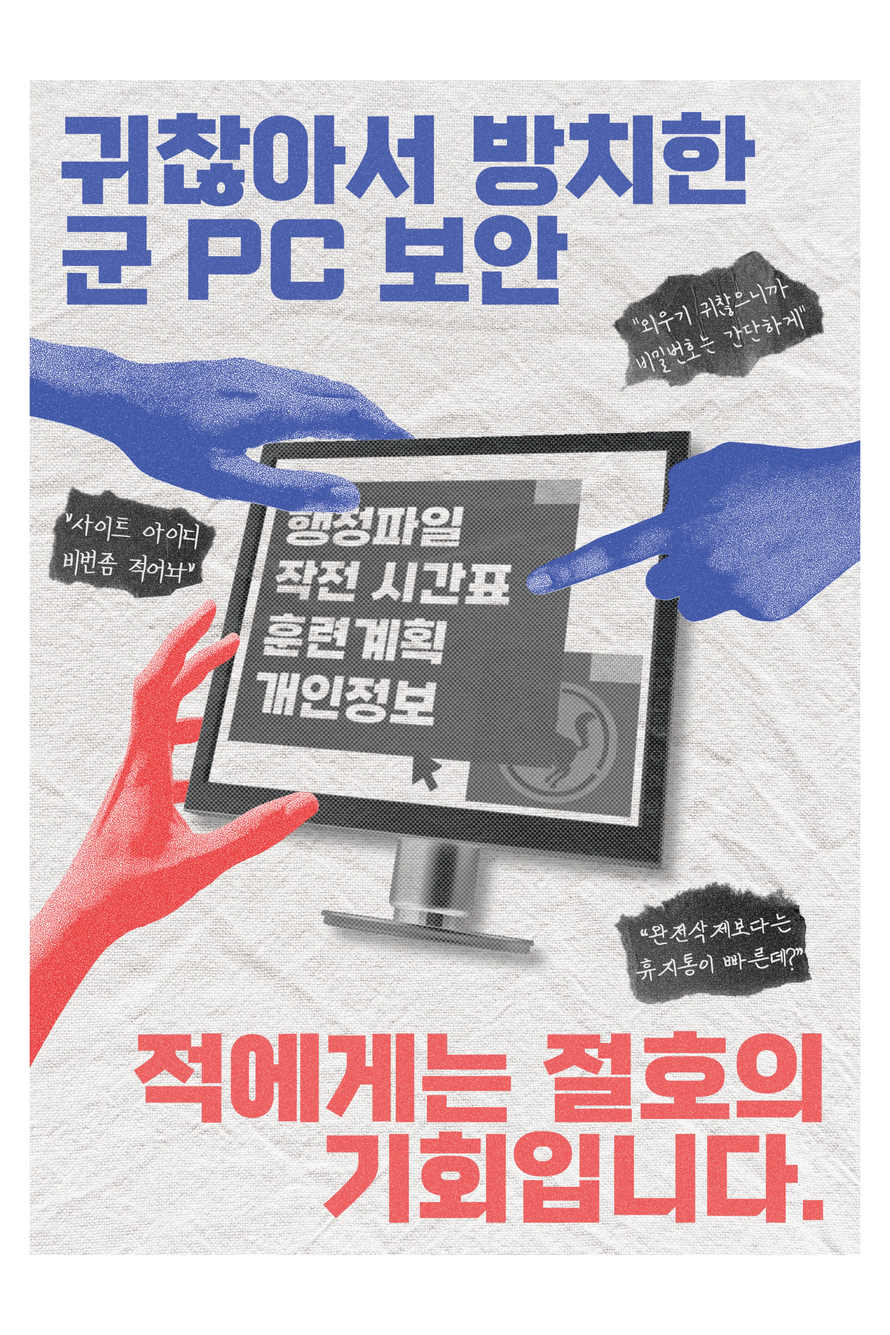
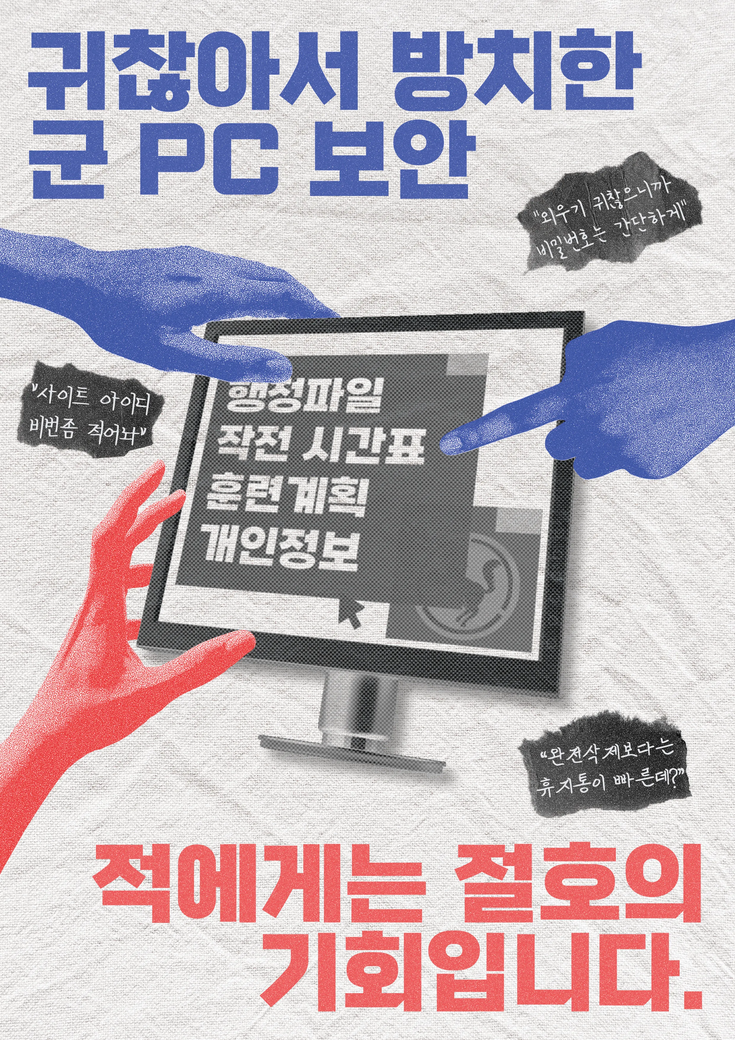
Polish post descriptions, update content_full text layout

diff --git a/assets/css/styles_tailwind.css b/assets/css/styles_tailwind.css
@@ -230,12 +230,6 @@
   .inline-flex {
     display: inline-flex;
   }
-  .table {
-    display: table;
-  }
-  .aspect-\[2\/3\] {
-    aspect-ratio: 2/3;
-  }
   .h-2 {
     height: calc(var(--spacing) * 2);
   }
@@ -253,9 +247,6 @@
   }
   .max-h-\[4rem\] {
     max-height: 4rem;
-  }
-  .w-1 {
-    width: calc(var(--spacing) * 1);
   }
   .w-1\/2 {
     width: calc(1/2 * 100%);
@@ -284,26 +275,14 @@
   .flex-1 {
     flex: 1;
   }
-  .flex-shrink {
-    flex-shrink: 1;
-  }
   .shrink-0 {
     flex-shrink: 0;
-  }
-  .flex-grow {
-    flex-grow: 1;
-  }
-  .border-collapse {
-    border-collapse: collapse;
   }
   .transform {
     transform: var(--tw-rotate-x,) var(--tw-rotate-y,) var(--tw-rotate-z,) var(--tw-skew-x,) var(--tw-skew-y,);
   }
   .animate-\[marquee_30s_linear_infinite\] {
     animation: marquee 30s linear infinite;
-  }
-  .resize {
-    resize: both;
   }
   .grid-cols-1 {
     grid-template-columns: repeat(1, minmax(0, 1fr));
@@ -331,6 +310,9 @@
   }
   .justify-end {
     justify-content: flex-end;
+  }
+  .justify-start {
+    justify-content: flex-start;
   }
   .gap-0 {
     gap: calc(var(--spacing) * 0);
@@ -469,13 +451,6 @@
   .uppercase {
     text-transform: uppercase;
   }
-  .underline {
-    text-decoration-line: underline;
-  }
-  .outline {
-    outline-style: var(--tw-outline-style);
-    outline-width: 1px;
-  }
   .outline-1 {
     outline-style: var(--tw-outline-style);
     outline-width: 1px;
@@ -485,9 +460,6 @@
   }
   .blur {
     --tw-blur: blur(8px);
-    filter: var(--tw-blur,) var(--tw-brightness,) var(--tw-contrast,) var(--tw-grayscale,) var(--tw-hue-rotate,) var(--tw-invert,) var(--tw-saturate,) var(--tw-sepia,) var(--tw-drop-shadow,);
-  }
-  .filter {
     filter: var(--tw-blur,) var(--tw-brightness,) var(--tw-contrast,) var(--tw-grayscale,) var(--tw-hue-rotate,) var(--tw-invert,) var(--tw-saturate,) var(--tw-sepia,) var(--tw-drop-shadow,);
   }
   .group-hover\:bg-white {
@@ -625,7 +597,6 @@
 }
 .markdown p {
   line-height: 1.75;
-  margin-top: 0.75rem;
   margin-bottom: 0.75rem;
 }
 .markdown a {
@@ -712,6 +683,12 @@ mjx-container[display="true"] {
 }
 mjx-container[display="true"] > mjx-math {
   min-width: fit-content;
+}
+.aspect-\[2\/3\] {
+  aspect-ratio: 2/3;
+}
+.aspect-\[1\/1\.41\] {
+  aspect-ratio: 1/1.41;
 }
 @property --tw-rotate-x {
   syntax: "*";

diff --git a/_includes/home/content_full.html b/_includes/home/content_full.html
@@ -12,7 +12,7 @@
                     <div class="flex flex-row items-center">
                         <div class="w-2 h-2 bg-black mr-2"></div>
                         <div class="font-normal font-[IBM_Plex_Mono] text-sm break-words">
-                            {{ post.date | date: "%Y-%m-%d" }}   
+                            {{ post.date | date: "%Y-%m-%d" }}
                         </div>
                     </div>
                     <div class="font-medium font-[Inter] text-2xl uppercase break-words">
@@ -28,17 +28,11 @@
                 </div>
             </div>
             <div class="sm:w-1/2 xl:w-2/3 flex flex-col justify-between items-center p-4 h-full">
-                <!-- Spacer -->
-                <div class="flex-grow"></div>
-            
-                <!-- Centered Text -->
+                <!-- Text -->
                 <div class="markdown w-full font-normal font-[IBM_Plex_Mono] text-left break-words">
                     {{ post.abstract | markdownify }}
                 </div>
 
-                <!-- Spacer -->
-                <div class="flex-grow"></div>
-            
                 <!-- Button at the bottom -->
                 <a class="w-full inline-flex items-center justify-center px-4 py-2 font-[IBM_Plex_Mono] text-sm text-black bg-neutral-200 border-1 border-black rounded-full hover:text-white hover:bg-black"
                 href="{{ post.url }}">

diff --git a/_layouts/home.html b/_layouts/home.html
@@ -15,13 +15,13 @@
   {% include home/content_full.html category="research" %}
       
   {% include title_carousel.html text="Photography" repeat=7 %}
-  {% include home/content_compact.html category="photography" %}
+  {% include home/content_compact.html category="photography" image_aspect="2/3" %}
 
   {% include title_carousel.html text="Interactive Media" repeat=5 %}
   {% include home/content_full.html category="interactive" %}
 
   {% include title_carousel.html text="Extras" repeat=12 %}
-  {% include home/content_compact.html category="extra" %}
+  {% include home/content_compact.html category="extra" image_aspect="1/1.41" %}
 
   {% include spacer_bottom.html %}
 </body>

diff --git a/_includes/home/content_compact.html b/_includes/home/content_compact.html
@@ -17,7 +17,8 @@
           <div class="flex-1 font-medium font-[Inter] text-2xl text-black group-hover:text-white uppercase break-words">
             {{ post.title }}
           </div>
-          <div class="relative w-full aspect-[2/3] overflow-hidden">
+          {% assign image_aspect = include.image_aspect %}
+          <div class="relative w-full aspect-[{{ image_aspect }}] overflow-hidden">
             <img src="{{ post.thumbnail }}" class="absolute inset-0 w-full h-full object-cover" />
           </div>
         </a>

diff --git a/assets/css/styles.css b/assets/css/styles.css
@@ -3,12 +3,12 @@
 /* === General Markdown Styling === */
 .markdown {
   color: black;
-  font-size: 0.875rem;
+  font-size: 0.875rem; /* same as text-sm */
 }
 
 .markdown p {
   line-height: 1.75;
-  margin-top: 0.75rem;
+  /*margin-top: 0.75rem;*/
   margin-bottom: 0.75rem;
 }
 
@@ -126,3 +126,11 @@ mjx-container[display="true"] {
 mjx-container[display="true"] > mjx-math {
   min-width: fit-content;
 }
+
+.aspect-\[2\/3\] {
+    aspect-ratio: 2/3;
+  }
+
+ .aspect-\[1\/1\.41\] {
+    aspect-ratio: 1/1.41;
+  }

diff --git a/_includes/home/content_about.html b/_includes/home/content_about.html
@@ -21,7 +21,7 @@
             </div>
             <div></div>
         </div>
-        <div class="sm:w-1/2 xl:w-2/3 flex flex-col justify-center items-center h-full p-4">
+        <div class="sm:w-1/2 xl:w-2/3 flex flex-col justify-start items-center h-full p-4">
             <div class="markdown w-full font-normal font-[IBM_Plex_Mono] text-base text-left break-words">
                 {{ post.content | markdownify }}
             </div>

diff --git a/_posts/interactive/2023-02-13-metro.md b/_posts/interactive/2023-02-13-metro.md
@@ -4,14 +4,14 @@ categories: interactive
 title: "Metro"
 title_repeat: 15
 subtitle: "3D Interactive Art"
-comment: "Interactive Exhibition Piece, Gimpo, South Korea"
+comment: "Interactive Art Exhibition Piece"
 date: 2023-02-13
 abstract: >
-  An interactive 3D scene of a train platform and an animated metro train, rendered in real-time in the Unity game engine. Heavily inspired by the 1995 movie "Whisper of the Heart", the visual style replicates the classic Japanese hand-drawn animation style. Selective, high contrast cel shading, edge outlines, and strong bloom were used as primary methods. Part of an in-person interactive art exhibition in Gimpo, South Korea, 2023. Made with Unity, Blender 3D, C#, and Xbox Kinect.
-thumbnail: /assets/img/metro/thumb.webp
+  An interactive 3D scene of a train platform and an animated metro train, rendered in real-time in the Unity game engine. The visual theme was heavily inspired by the 1995 movie "Whisper of the Heart", replicating the classic Japanese hand-drawn animation style. Selective, high contrast cel shading, edge outlines, and strong bloom were used as primary techniques. An animated train would arrive and depart upon user input or movement detection via an Xbox Kinect sensor. Part of an in-person interactive art exhibition in Gimpo, South Korea, in 2023. Made with Unity for (main engine), Blender 3D (modelling), C# (scripting), and Xbox Kinect (person detection).
+thumbnail: /assets/img/metro/main_demo.gif
 permalink: /metro
 ---
-<img src="/assets/img/metro/thumb.webp" class="w-full sm:w-2/3 h-auto mx-auto">
+<img src="/assets/img/metro/main_demo.gif" class="w-full sm:w-2/3 h-auto mx-auto">
 
 {{ page.abstract }}
 
@@ -24,7 +24,7 @@ permalink: /metro
 
 ## Overview
 <video class="w-full sm:w-1/3 h-auto mx-auto" autoplay loop muted>
-  <source src="/assets/img/metro/demo.mp4" type="video/mp4">
+  <source src="/assets/img/metro/render_demo.mp4" type="video/mp4">
 </video>
 
 # Exhibition Installation 

diff --git a/_posts/research/2025-04-28-emulating-emulsion.md b/_posts/research/2025-04-28-emulating-emulsion.md
@@ -4,10 +4,10 @@ categories: research
 title: "Emulating Emulsion"
 title_repeat: 5
 subtitle: "A Compact, Physically-Based Model for Film Colour"
-comment: "SIGGRAPH Posters 2025, Vancouver, Canada"
+comment: "ACM SIGGRAPH 2025 Posters"
 date: 2025-04-28
 abstract: >
- We present a compact, physically-based model that faithfully emulates the colour response of positive photographic film from a digital RAW image. Unlike hand-crafted look-up tables (LUT) or data-hungry neural networks, our approach analytically mirrors the film "capture-develop–scan" chain, all with around 30 trainable parameters. Least-squares optimisation on 3168 colour patch pairs captured on one roll of Fujifilm VELVIA 100 achieves colour chart root-mean-squared-error (RMSE) 1.3 % with no interpolation artefacts. Additionally, qualitative comparisons show the proposed model more closely matches real film than Fujifilm’s proprietary VELVIA "film simulation". The continuous model can also be discretised into LUTs of any resolution, offering production-ready film emulation and a path for archival of discontinued stocks.
+ We present a compact, physically-based model that faithfully emulates the colour response of positive photographic film from a digital RAW image. Unlike hand-crafted look-up tables (LUT) or data-hungry neural networks, our approach analytically mirrors the film "capture-develop–scan" chain, all with around 30 trainable parameters. Least-squares optimisation is performed on 3168 colour patch pairs captured on one roll of Fujifilm VELVIA 100. Qualitative comparisons show the proposed model more closely matches real film than proprietary methods, and offers artefact-free rendering over discrete LUTs. The continuous model offers production-ready film emulation and a path for archival of discontinued stocks.
 thumbnail: /assets/img/emulating-emulsion/headliner.webp
 permalink: /siggraphposters25
 ---

diff --git a/_posts/interactive/2022-09-12-sairi.md b/_posts/interactive/2022-09-12-sairi.md
@@ -4,10 +4,10 @@ categories: interactive
 title: "Sairi"
 title_repeat: 15
 subtitle: "2D & 3D Hybrid Game UI Demo"
-comment: "Hobby Project, Seoul, South Korea"
+comment: "Visual Effects Demo"
 date: 2022-09-12
 abstract: >
- Born as an attempt to blur the lines between visually expressive but static posters and interactive game UI. It demonstrates an interface with a strong focus on stylised visual aesthetics, while maintaining functionality. Also a compilation of various 2D and 3D effects, often hand-implented in Unity's URP Shadergraph, in a single package. Made with Unity, VRoid Studio, Blender 3D, C#, and Python.
+ Born as an attempt to blur the lines between visually expressive but static posters and interactive game UI. Demonstrates an interface with a strong focus on stylised visual aesthetics while maintaining functionality. Also a compilation of various real-time 2D and 3D rendering techniques, including cel shading with outlines, character animation transitions, depth-based live shader replacement, and procedurally generated Bezier splines. Most visual effects were implemented in Unity's URP Shadergraph. Made with Unity (main engine), VRoid Studio (character modelling), Blender 3D (model optimisation), C# (scripting).
  
 thumbnail: /assets/img/sairi/main_demo.gif
 permalink: /sairi-project

diff --git a/_posts/extras/2024-05-13-up-express.md b/_posts/extras/2024-05-13-up-express.md
@@ -5,6 +5,6 @@ title: "Union-Pearson Express Poster"
 title_repeat: 4
 comment: "Fujifilm X100V + Adobe Photoshop"
 date: 2024-05-13
-thumbnail: /assets/img/up-express/upexpress_poster.webp
+thumbnail: /assets/img/up-express/1.webp
 image_dir: /assets/img/up-express/
 ---

diff --git a/_posts/photography/2024-07-24-toronto-summer.md b/_posts/photography/2024-07-24-toronto-summer.md
@@ -1,7 +1,7 @@
 ---
 layout: gallery
 categories: photography
-title: "Toronto B"
+title: "Toronto II"
 title_repeat: 7
 comment: "Fujifilm X100V + Fujifilm X-Pro3 + Leica M10"
 date: 2024-07-24

diff --git a/_posts/photography/2024-03-22-toronto-winter.md b/_posts/photography/2024-03-22-toronto-winter.md
@@ -1,7 +1,7 @@
 ---
 layout: gallery
 categories: photography
-title: "Toronto A"
+title: "Toronto I"
 title_repeat: 7
 comment: "Fujifilm X100V + Fujifilm X-Pro3 + Leica M10"
 date: 2024-03-22
